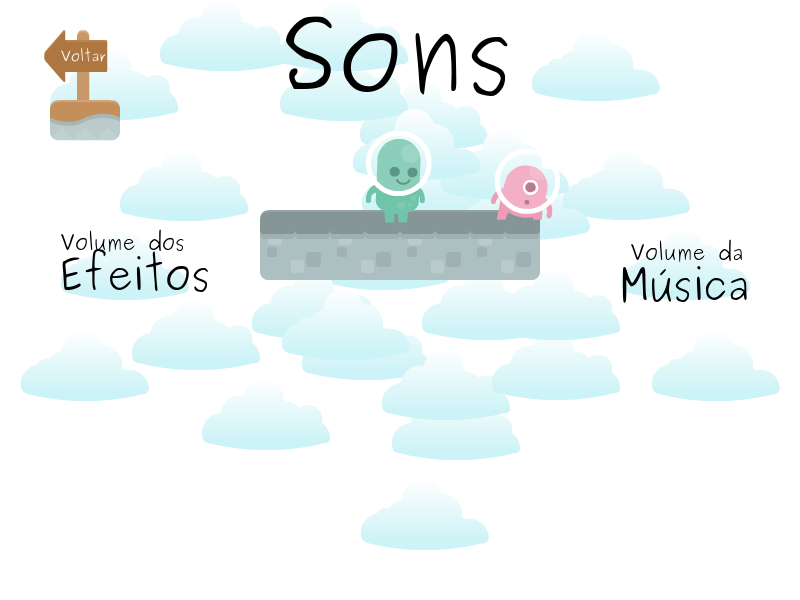
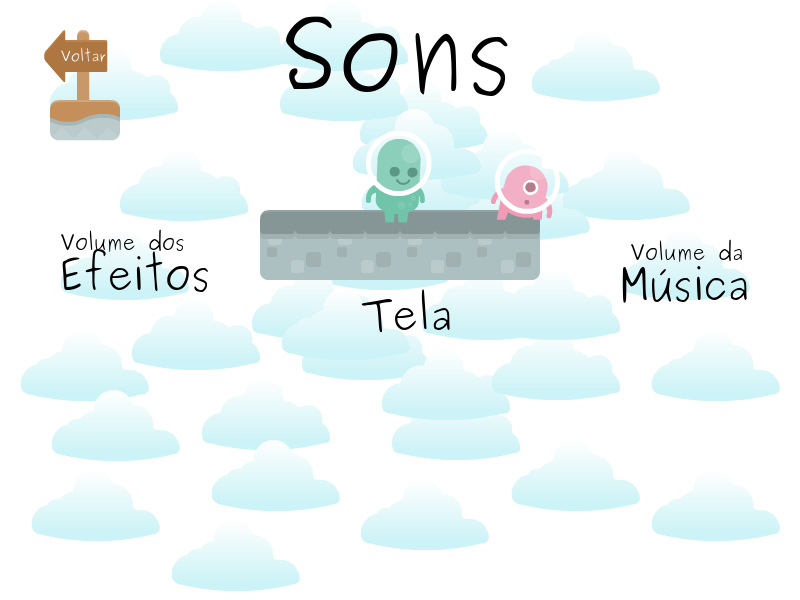
Adicionada opção tela cheia!

diff --git a/main.py b/main.py
@@ -24,11 +24,14 @@ volume_0 = pygame.image.load('img/menu/volume_0.png')
 volume_1 = pygame.image.load('img/menu/volume_1.png')
 volume_2 = pygame.image.load('img/menu/volume_2.png')
 volume_3 = pygame.image.load('img/menu/volume_3.png')
+tela_janela = pygame.image.load("img/menu/tela_janela.png") 
+tela_cheia = pygame.image.load("img/menu/tela_cheia.png")
 
 # sons
 #somDeClick = pygame.mixer.Sound('sound/click.wav')
 volume_musica = 0.03
 volume_efeitos = 1.
+tela_full = False
 
 while True:
     somDeClick = pygame.mixer.Sound('sound/click.wav')
@@ -59,7 +62,7 @@ while True:
                 if click:
                     somDeClick.play()
                     click = False
-                    jogar.jogar()
+                    jogar.jogar(window)
             # Captura mouse - botao opcoes
             elif 433 < mouse_pos_y < 478:
                 window.blit(select, (543, 443))
@@ -71,8 +74,9 @@ while True:
                 window.blit(select, (543, 533))
                 if click:
                     somDeClick.play()
+                    
+        # Captura mouse - botao sair
         elif 517 < mouse_pos_y < 560:
-            # Captura mouse - botao sair
             if 192 < mouse_pos_x < 314:
                 window.blit(select, (147, 533))
                 if click:
@@ -82,11 +86,31 @@ while True:
     # menu opções
     if menu == 2:
         window.blit(opcoes, (0, 0))
+        if not tela_full:
+            window.blit(tela_janela, (320, 350))
+        else:
+            window.blit(tela_cheia, (320, 350))
         
         if 40 < mouse_pos_x < 110 and 30 < mouse_pos_y < 80:
             if click:
                 somDeClick.play()
                 menu = 1
+        # Controle de tela cheia/janela
+        if 350 < mouse_pos_y < 400:
+            if 410 < mouse_pos_x < 480 and tela_full:
+                # telafull
+                if click:
+                    somDeClick.play()
+                    pygame.display.toggle_fullscreen()
+                    tela_full = False
+                
+            if 320 < mouse_pos_x < 390 and not tela_full:
+                #telajanela
+                if click:
+                    somDeClick.play()
+                    pygame.display.toggle_fullscreen()
+                    tela_full = True
+        
         # blocos de controle volume dos efeitos
         if volume_efeitos == 1.:
             window.blit(volume_3, (70, 320))

diff --git a/jogar.py b/jogar.py
@@ -31,14 +31,11 @@ class Nivel2():
     platforms = [[0,0,0]]
     buracos = []
         
-        
 nivel = Nivel1()    
     
-def jogar():
-    window = pygame.display.set_mode((800, 600)) 
-    pygame.init()
+def jogar(window_pric):
+    window = window_pric
     player = personagem.Personagem()
-    pygame.init()
     fundo = pygame.image.load(nivel.bg)
     
     #O segundo parâmetro da função define o delay das teclas.
